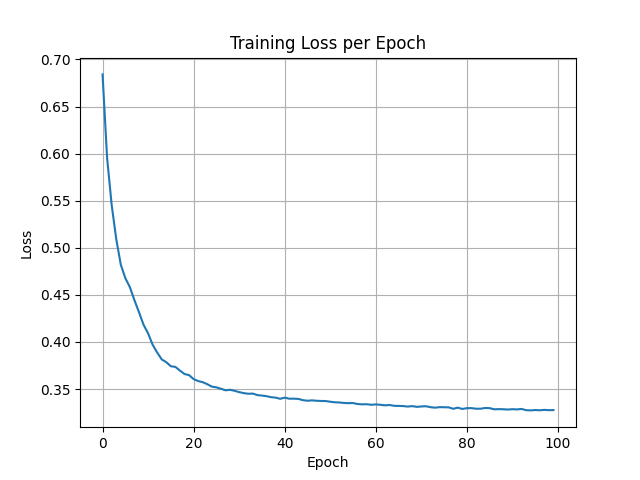
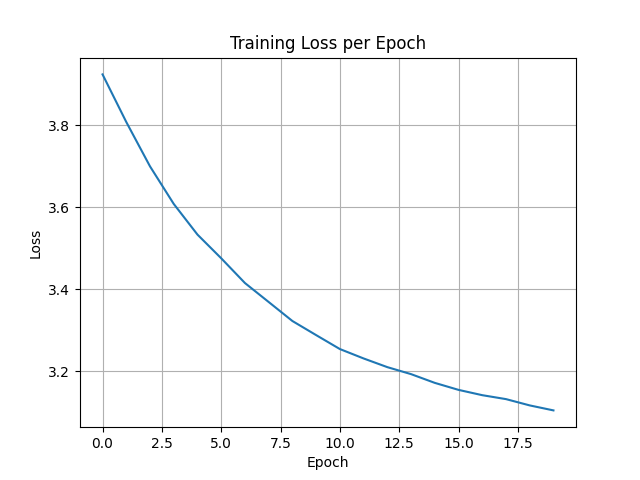
Added more nodes and refactored iter playlist

diff --git a/build_track_cache.py b/build_track_cache.py
@@ -6,11 +6,10 @@ from typing import Dict, List
 from mongo import MongoCache
 
 import os, certifi
-os.environ["SSL_CERT_FILE"] = certifi.where()
 
-# Constants
-START_FROM = 3
-LIMIT = 550_000
+from playlist_iterator import iter_mpd_playlists, LIMIT
+
+os.environ["SSL_CERT_FILE"] = certifi.where()
 
 # Cell 2: MPD iterator & small sample fallback
 
@@ -21,32 +20,6 @@ def spotify_url_to_uri(url: str) -> str:
     item_id = parts[-1].split("?")[0]
     return f"spotify:{item_type}:{item_id}"
 
-def iter_mpd_playlists(mpd_dir: str, start=0):
-    """Yield playlists from each .json file in mpd_dir (sorted)."""
-    files = sorted(
-        os.path.join(mpd_dir, f)
-        for f in os.listdir(mpd_dir)
-        if f.endswith(".json")
-    )
-
-
-    print(f"There is {len(files)} files")
-    idx = 0  # global playlist counter
-    for fp in files:
-        with open(fp, 'r', encoding='utf-8') as fh:
-            try:
-                data = json.load(fh)
-            except Exception as e:
-                print(f'Warning: failed to load {fp}: {e}')
-                continue
-            for pl in data.get("playlists", []):
-                print(f"Playlist {idx}")
-                if idx < start:
-                    idx += 1
-                    continue
-
-                yield pl
-                idx += 1
 
 import http.client
 
@@ -94,7 +67,7 @@ def augment_tracks(playlists: List[Dict], cache: MongoCache, batch_size=40):
             if cache.exists(tid, cache.TRACKS_NAME):
                 features[tid] = cache.get(tid, cache.TRACKS_NAME)
                 print("kesirano")
-                break
+                # break
                 continue
 
             url += str(track_id) + ","
@@ -155,7 +128,7 @@ if __name__ == '__main__':
     signal.signal(signal.SIGTERM, cleanup_handler)
 
     playlists = []
-    for pl in iter_mpd_playlists(mpd_dir, start=START_FROM):
+    for pl in iter_mpd_playlists(mpd_dir):
         playlists.append(pl)
         if LIMIT and len(playlists) >= LIMIT:
             break

diff --git a/build_kg.py b/build_kg.py
@@ -7,30 +7,13 @@ import json
 
 from mongo import MongoCache
 from music_graph import SpotifyMusicGraphSchema
+from playlist_iterator import iter_mpd_playlists, LIMIT
 
 try:
     import faiss
 except Exception:
     faiss = None
 
-def iter_mpd_playlists(mpd_dir: str, n=None):
-    """Yield playlists from each .json file in mpd_dir (sorted)."""
-    files = [os.path.join(mpd_dir, f) for f in os.listdir(mpd_dir) if f.endswith('.json')]
-    if n is None:
-        files = sorted(files)
-    else:
-        files = sorted(files)[:n]
-
-    print(f"There is {len(files)} files")
-    for fp in files:
-        with open(fp, 'r', encoding='utf-8') as fh:
-            try:
-                data = json.load(fh)
-            except Exception as e:
-                print(f'Warning: failed to load {fp}: {e}')
-                continue
-            for pl in data.get('playlists', []):
-                yield pl
 
 def build_full_kg(playlists, cache: MongoCache, graph, track_features = None,):
     # iterate playlists
@@ -82,7 +65,7 @@ def build_full_kg(playlists, cache: MongoCache, graph, track_features = None,):
 
     return graph
 
-limit = 550000
+
 mpd_dir = "./archive/data"
 graph = SpotifyMusicGraphSchema()
 cache = MongoCache()
@@ -90,7 +73,7 @@ cache = MongoCache()
 playlists = []
 for pl in iter_mpd_playlists(mpd_dir):
     playlists.append(pl)
-    if limit and len(playlists) >= limit:
+    if LIMIT and len(playlists) >= LIMIT:
         break
 graph = build_full_kg(playlists, cache, graph)
 graph.serialize()

diff --git a/build_artist_cache.py b/build_artist_cache.py
@@ -3,25 +3,9 @@ import os
 
 import requests
 
+from playlist_iterator import iter_mpd_playlists, LIMIT
 from mongo import MongoCache
-def iter_mpd_playlists(mpd_dir: str, n=None):
-    """Yield playlists from each .json file in mpd_dir (sorted)."""
-    files = [os.path.join(mpd_dir, f) for f in os.listdir(mpd_dir) if f.endswith('.json')]
-    if n is None:
-        files = sorted(files)
-    else:
-        files = sorted(files)[:n]
 
-    print(f"There is {len(files)} files")
-    for fp in files[200:]:
-        with open(fp, 'r', encoding='utf-8') as fh:
-            try:
-                data = json.load(fh)
-            except Exception as e:
-                print(f'Warning: failed to load {fp}: {e}')
-                continue
-            for pl in data.get('playlists', []):
-                yield pl
 
 def get_artist(artist_id: str):
     url = f"https://api.spotify.com/v1/artists/{artist_id}"
@@ -57,7 +41,6 @@ if __name__ == "__main__":
     # Example usage
     # -------------------------------
     mpd_dir = "./archive/data"
-    limit = 10000
 
     import spotipy
     from spotipy.oauth2 import SpotifyOAuth
@@ -94,7 +77,7 @@ if __name__ == "__main__":
     playlists = []
     for pl in iter_mpd_playlists(mpd_dir):
         playlists.append(pl)
-        if limit and len(playlists) >= limit:
+        if LIMIT and len(playlists) >= LIMIT:
             break
 
     unique = {}

diff --git a/playlist_iterator.py b/playlist_iterator.py
@@ -1,0 +1,24 @@
+import json
+import os
+# IMPORTANT from 0 always for build_kg
+START = 0
+LIMIT = 1000000
+def iter_mpd_playlists(mpd_dir: str):
+    """Yield playlists from each .json file in mpd_dir (sorted)."""
+    files = sorted(
+        os.path.join(mpd_dir, f)
+        for f in os.listdir(mpd_dir)
+        if f.endswith(".json")
+    )
+
+    print(f"There is {len(files)} files")
+    for fp in files:
+        with open(fp, 'r', encoding='utf-8') as fh:
+            try:
+                data = json.load(fh)
+            except Exception as e:
+                print(f'Warning: failed to load {fp}: {e}')
+                continue
+            for pl in data.get("playlists", []):
+                if pl["pid"] >= START:
+                    yield pl

diff --git a/model_pyg.py b/model_pyg.py
@@ -289,7 +289,7 @@ if __name__ == "__main__":
     # Node counts for negative sampling
     node_counts = {ntype: train_data[ntype].num_nodes for ntype in train_data.node_types}
 
-    epochs = 100
+    epochs = 20
     seed_node_type = None
     check_train_test_overlap(train_data, test_data)
 
@@ -465,7 +465,7 @@ if __name__ == "__main__":
             f"Epoch {epoch:03d} | "
             f"train_loss: {loss.item():.4f} | "
             f"train_margin: {train_margin:.4f} | "
-            f"train_AUC~: {train_auc_approx:.4f} | "
+            # f"train_AUC~: {train_auc_approx:.4f} | "
             f"VAL gAUC: {gauc:.4f} | "
             f"VAL MRR: {mrr:.4f} | "
             f"VAL NDCG@{K}: {ndcg:.4f} | "
